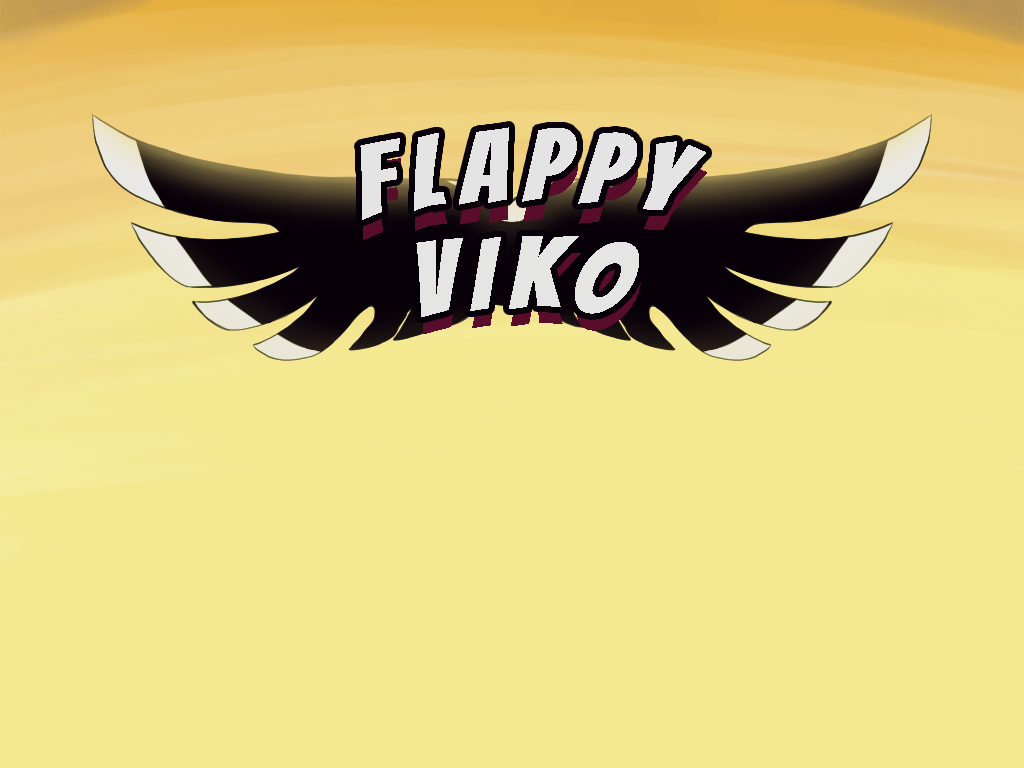
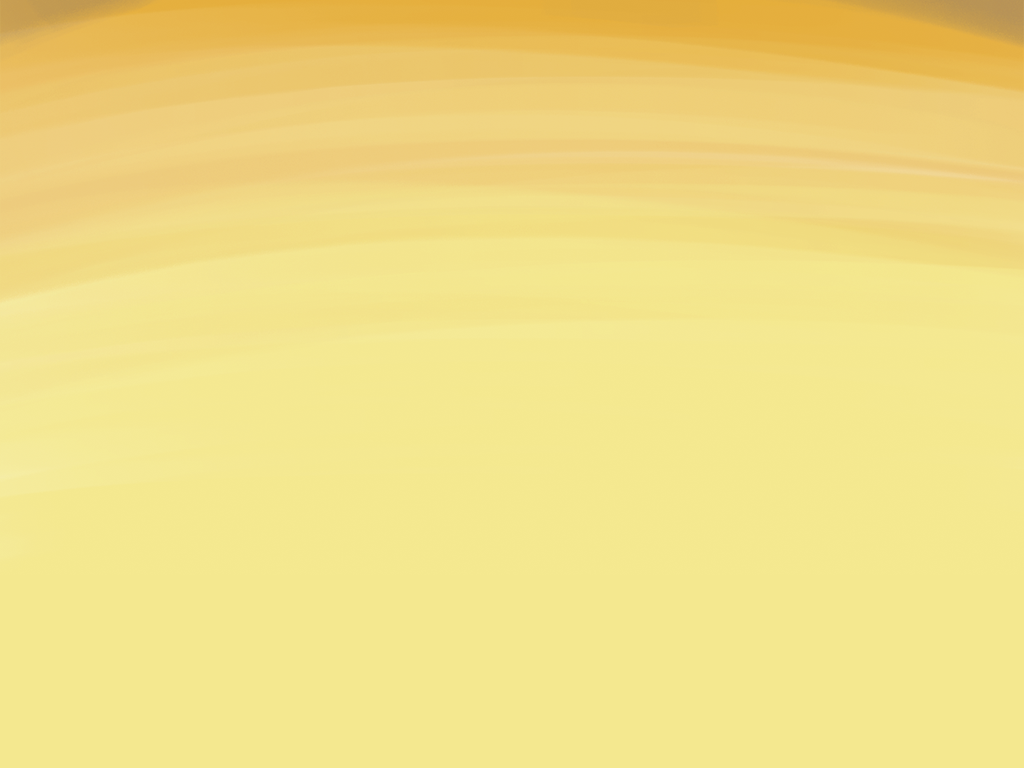
Add MenuAnimation with birdScream Sound

Changed region(s): [[0.0938, 0.1562, 0.9062, 0.4688]]

diff --git a/src/Menu/Menu.cpp b/src/Menu/Menu.cpp
@@ -5,6 +5,7 @@
 namespace FlappyBird
 {
 	static Texture2D backTexture;
+	static Texture2D title;
 
 	static Texture2D playButtonTexture;
 	static Texture2D creditsButtonTexture;
@@ -18,15 +19,47 @@ namespace FlappyBird
 	static Button creditsButton;
 	static Button exitButton;
 
+	Sound birdScream;
+	Sound buttonPress;
+
+	float titleY = 0;
+	bool soundWasPlayed = false;
+
+	static void UpdateTitlePos()
+	{
+		int titleFinalPosY = -150;
+
+		if (titleY > titleFinalPosY)
+		{
+			int titleSpeed = 200;
+
+			titleY -= titleSpeed * GetFrameTime();
+		}
+		else if (!soundWasPlayed)
+		{
+			PlaySound(birdScream);
+			soundWasPlayed = true;
+		}
+	
+	}
+
 	static void UnloadMenu()
 	{
 		UnloadTexture(backTexture);
-		UnloadTexture(playButtonTexture);
-		UnloadTexture(exitButtonTexture);
+		UnloadTexture(title);
+
 		UnloadTexture(creditsButtonTexture);
-		UnloadTexture(playButtonPressedTexture);
-		UnloadTexture(exitButtonPressedTexture);
 		UnloadTexture(creditsButtonPressedTexture);
+		
+		UnloadTexture(playButtonTexture);
+		UnloadTexture(playButtonPressedTexture);
+		
+		UnloadTexture(exitButtonTexture);
+		UnloadTexture(exitButtonPressedTexture);
+
+		UnloadSound(birdScream);
+		UnloadSound(buttonPress);
+
 	}
 
 	static void MenuInput(Scenes& scene)
@@ -37,6 +70,7 @@ namespace FlappyBird
 
 			if (CheckMouseInput(playButton))
 			{
+				PlaySound(buttonPress);
 				scene = Scenes::Play;
 				UnloadMenu();
 			}
@@ -49,6 +83,7 @@ namespace FlappyBird
 			creditsButton.isSelected = true;
 			if (CheckMouseInput(creditsButton))
 			{
+				PlaySound(buttonPress);
 				scene = Scenes::Credits;
 				UnloadMenu();
 			}
@@ -61,6 +96,7 @@ namespace FlappyBird
 			exitButton.isSelected = true;
 			if (CheckMouseInput(exitButton))
 			{
+				PlaySound(buttonPress);
 				scene = Scenes::Exit;
 				UnloadMenu();
 			}
@@ -72,7 +108,15 @@ namespace FlappyBird
 	void InitMenu()
 	{
 		backTexture = LoadTexture("res/PNG/backmenu.png");
+		title = LoadTexture("res/PNG/title.png");
+
+		birdScream = LoadSound("res/AUDIO/sounds/birdScream.mp3");
+		buttonPress = LoadSound("res/AUDIO/sounds/buttonSound.mp3");
+
+		titleY = static_cast<float>(GetScreenHeight());
 		InitMenuButtons();
+
+		soundWasPlayed = false;
 	}
 
 	void InitMenuButtons()
@@ -104,11 +148,16 @@ namespace FlappyBird
 	void DrawMenu()
 	{
 		BeginDrawing();
+
 		DrawTexture(backTexture, 0, 0, RAYWHITE);
 
+		int titleX = GetScreenWidth() / 2 - title.width /2;
+		DrawTexture(title, titleX, static_cast<int>(titleY),WHITE);
+		
 		DrawButton(playButton);
 		DrawButton(creditsButton);
 		DrawButton(exitButton);
+		
 		EndDrawing();
 	}
 
@@ -119,7 +168,7 @@ namespace FlappyBird
 			InitMenu();
 			PlayMusicStream(music);
 		}
-
+		UpdateTitlePos();
 		UpdateMusicStream(music);
 		DrawMenu();
 		MenuInput(scene);
